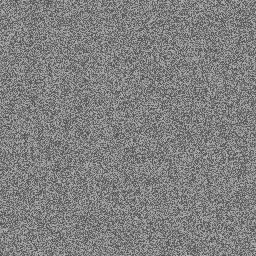
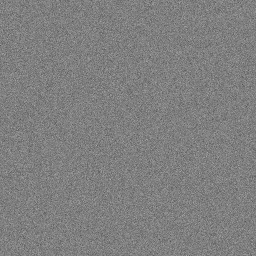
Balanced grain retuned by simulation (zero shift, gentler texture); every pinochle pair flips to light Pinochle over dark DD, coral gets real rules, lagoon teal joins; Rummy brightens to #6746BE

diff --git a/index.html b/index.html
@@ -577,7 +577,7 @@
   body.tilebg-cardroomcusp .gimg:has(> .glogo[alt="Canasta"]) { background-color: #008969 !important; }
   body.tilebg-cardroomcusp .gimg:has(> .glogo[alt="Gin Rummy"]) { background-color: #8623ba !important; }
   body.tilebg-cardroomcusp .gimg:has(> .glogo[alt="Hand & Foot"]) { background-color: #008091 !important; }
-  body.tilebg-cardroomcusp .gimg:has(> .glogo[alt="Rummy"]) { background-color: #5d3d83 !important; }
+  body.tilebg-cardroomcusp .gimg:has(> .glogo[alt="Rummy"]) { background-color: #6746be !important; }
   body.tilebg-cardroomcusp .gimg:has(> .glogo[alt="Cribbage"]) { background-color: #844c00 !important; }
   body.tilebg-cardroomcusp .gimg:has(> .glogo[alt="Crazy Eights"]) { background-color: #bc3233 !important; }
   body.tilebg-cardroomcusp .gimg:has(> .glogo[alt="Go Fish"]) { background-color: #58abd8 !important; }
@@ -688,18 +688,22 @@
 
   /* ===== Pinochle pair test bench: overrides the pair on top of any
      tile-colors mode; Pinochle wears the darker step ===== */
-  body.pinpair-plum .gimg:has(> .glogo[alt="Pinochle"]) { background-color: #5d2d5e !important; }
-  body.pinpair-plum .gimg:has(> .glogo[alt="Double Deck Pinochle"]) { background-color: #854384 !important; }
-  body.pinpair-graphite .gimg:has(> .glogo[alt="Pinochle"]) { background-color: #363e49 !important; }
-  body.pinpair-graphite .gimg:has(> .glogo[alt="Double Deck Pinochle"]) { background-color: #5a6474 !important; }
-  body.pinpair-petrol .gimg:has(> .glogo[alt="Pinochle"]) { background-color: #004d58 !important; }
-  body.pinpair-petrol .gimg:has(> .glogo[alt="Double Deck Pinochle"]) { background-color: #007b88 !important; }
-  body.pinpair-cocoa .gimg:has(> .glogo[alt="Pinochle"]) { background-color: #592d12 !important; }
-  body.pinpair-cocoa .gimg:has(> .glogo[alt="Double Deck Pinochle"]) { background-color: #9c6238 !important; }
-  body.pinpair-royal .gimg:has(> .glogo[alt="Pinochle"]) { background-color: #4438b8 !important; }
-  body.pinpair-royal .gimg:has(> .glogo[alt="Double Deck Pinochle"]) { background-color: #7466df !important; }
-  body.pinpair-gold .gimg:has(> .glogo[alt="Pinochle"]) { background-color: #8f7100 !important; }
-  body.pinpair-gold .gimg:has(> .glogo[alt="Double Deck Pinochle"]) { background-color: #c2a118 !important; }
+  body.pinpair-coral .gimg:has(> .glogo[alt="Pinochle"]) { background-color: #e07856 !important; }
+  body.pinpair-coral .gimg:has(> .glogo[alt="Double Deck Pinochle"]) { background-color: #9e3b24 !important; }
+  body.pinpair-teal .gimg:has(> .glogo[alt="Pinochle"]) { background-color: #2fa8a0 !important; }
+  body.pinpair-teal .gimg:has(> .glogo[alt="Double Deck Pinochle"]) { background-color: #0b6b63 !important; }
+  body.pinpair-plum .gimg:has(> .glogo[alt="Pinochle"]) { background-color: #854384 !important; }
+  body.pinpair-plum .gimg:has(> .glogo[alt="Double Deck Pinochle"]) { background-color: #5d2d5e !important; }
+  body.pinpair-graphite .gimg:has(> .glogo[alt="Pinochle"]) { background-color: #5a6474 !important; }
+  body.pinpair-graphite .gimg:has(> .glogo[alt="Double Deck Pinochle"]) { background-color: #363e49 !important; }
+  body.pinpair-petrol .gimg:has(> .glogo[alt="Pinochle"]) { background-color: #007b88 !important; }
+  body.pinpair-petrol .gimg:has(> .glogo[alt="Double Deck Pinochle"]) { background-color: #004d58 !important; }
+  body.pinpair-cocoa .gimg:has(> .glogo[alt="Pinochle"]) { background-color: #9c6238 !important; }
+  body.pinpair-cocoa .gimg:has(> .glogo[alt="Double Deck Pinochle"]) { background-color: #592d12 !important; }
+  body.pinpair-royal .gimg:has(> .glogo[alt="Pinochle"]) { background-color: #7466df !important; }
+  body.pinpair-royal .gimg:has(> .glogo[alt="Double Deck Pinochle"]) { background-color: #4438b8 !important; }
+  body.pinpair-gold .gimg:has(> .glogo[alt="Pinochle"]) { background-color: #c2a118 !important; }
+  body.pinpair-gold .gimg:has(> .glogo[alt="Double Deck Pinochle"]) { background-color: #8f7100 !important; }
 
   * { margin: 0; padding: 0; box-sizing: border-box; }
   body {
@@ -3671,7 +3675,8 @@
     ["petrol", "Petrol & deep sea"],
     ["cocoa", "Cocoa & copper (current)"],
     ["royal", "Royal violet & periwinkle"],
-    ["gold", "Old gold & brass"]
+    ["gold", "Old gold & brass"],
+    ["teal", "Lagoon & deep teal"]
   ];
   var TILEBGS = [
     ["slots", "Palette slots (as before)", "Base"],
